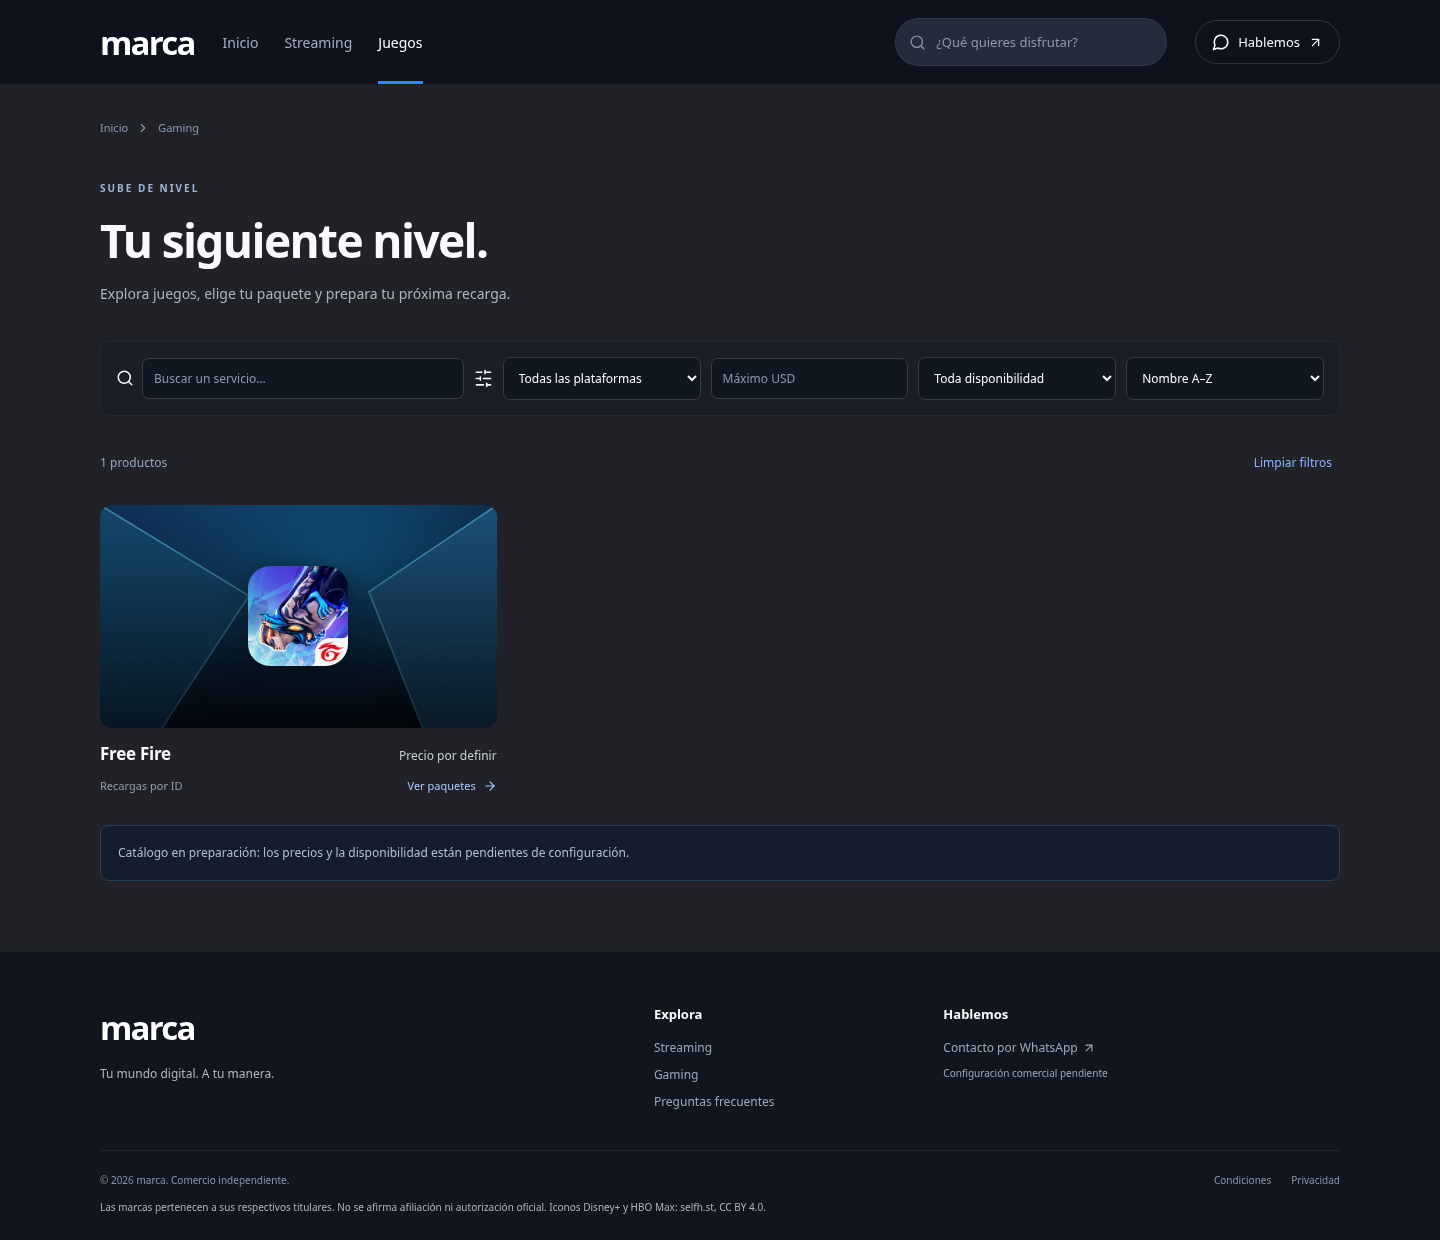
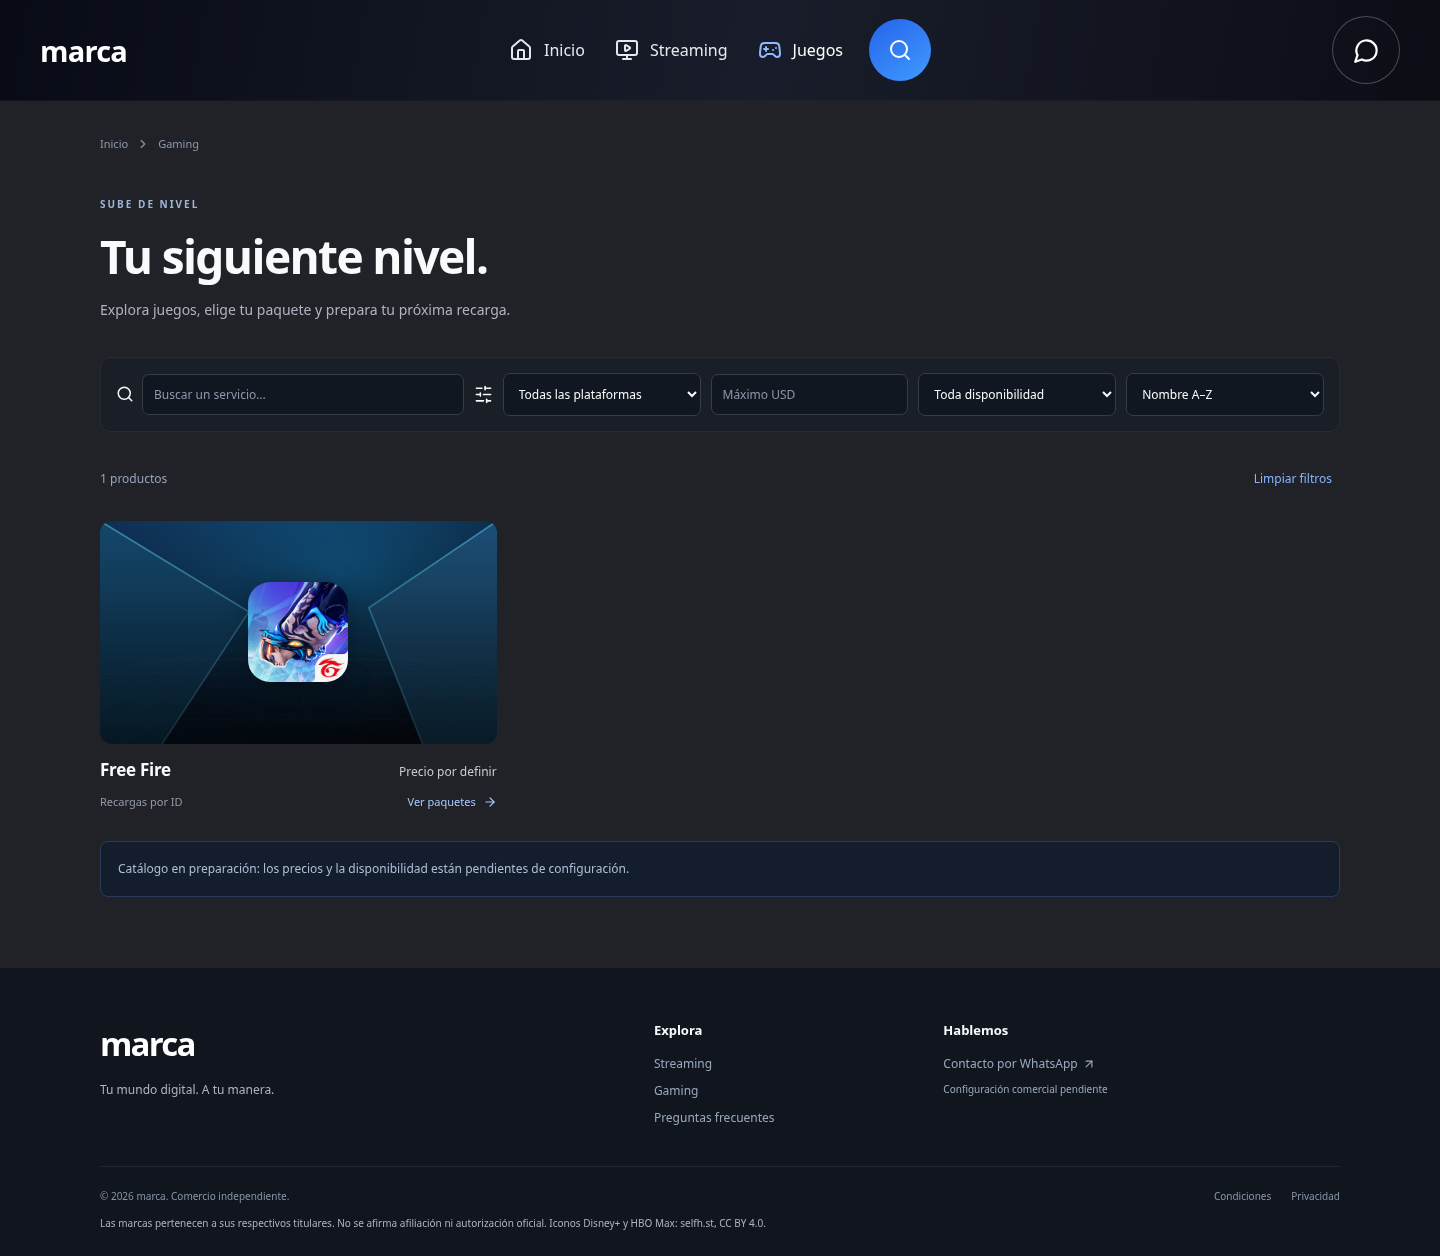
Replicar distribución de navegación con enlaces y búsqueda del catálogo

diff --git a/src/style.css b/src/style.css
@@ -27,3 +27,30 @@ body{overflow-x:clip}header{position:sticky;top:0;z-index:20;background:#0d111ce
 @media(min-width:1450px){.hero.storefront-hero{min-height:590px}}
 @media(max-width:1050px){.wrap{width:calc(100% - 44px)}.nav{gap:18px}.nav-search input{width:180px}.contact{padding:10px}.hero.storefront-hero{padding-left:30px;padding-right:30px;min-height:510px}.hero-feature{transform:scale(.82);transform-origin:center right}.service-strip{gap:4px}.service-strip span{font-size:10px}.service-strip>a{gap:6px}.product-card .product-logo{height:80px}.card-title-row{flex-wrap:wrap;gap:5px}.diamond-art{gap:15px}.diamond-art>svg{width:70px;height:70px}}
 @media(max-width:760px){.wrap{width:calc(100% - 32px)}.nav{min-height:74px;gap:12px}.nav-search{max-width:none;flex:1;padding-left:10px}.nav-search input{width:100%;padding:11px 6px;font-size:11px}.contact{border:0;padding:6px}.nav nav.open{order:5}.hero.storefront-hero{padding:40px 24px 58px;min-height:0;grid-template-columns:1fr;gap:20px}.storefront-hero h1{font-size:52px;letter-spacing:-2px}.storefront-hero p{font-size:14px;max-width:360px}.storefront-hero .eyebrow{font-size:8px}.storefront-hero .actions{gap:9px}.storefront-hero .button{padding:12px 15px;font-size:11px}.hero-feature{height:220px;max-width:340px;width:100%;margin:0 auto;transform:none}.feature-orbit{inset:0}.screen-cinema{width:140px;height:180px;left:4%;top:6px}.screen-cinema .product-logo{height:100px}.screen-cinema>span{font-size:6px;bottom:16px;letter-spacing:1px}.screen-play{width:155px;height:180px;right:4%;top:25px;gap:10px}.screen-play>svg:first-child{width:50px;height:50px}.screen-play>span{font-size:18px}.screen-play>svg:last-child{width:15px}.screen-sound{width:165px;height:88px;bottom:0;left:15%;padding:15px;gap:12px}.screen-sound .product-logo{width:42px;height:42px}.equalizer{height:40px;gap:3px}.equalizer i{width:4px}.hero-edition{display:none}.storefront-hero:after{height:22px}.service-strip{grid-template-columns:repeat(3,1fr);padding:12px 0 18px;gap:8px 4px}.service-strip>a{gap:7px;min-height:40px;padding:5px}.service-strip span{font-size:10px}.service-strip .product-logo{width:23px;height:23px;max-width:23px}.service-strip .logo-disney,.service-strip .logo-max{width:32px;max-width:32px}.section{margin-top:32px}.section-heading h2{font-size:23px;gap:4px}.section-heading h2 svg{width:20px}.section-heading .eyebrow{font-size:8px;letter-spacing:1px}.section-heading>a{font-size:10px}.product-grid{gap:22px 14px}.product-card .product-logo{height:64px;width:45%}.product-card .logo-free-fire{width:64px;height:64px;border-radius:14px}.product-visual{border-radius:9px}.card-body{padding-top:10px}.card-body h3{font-size:15px;line-height:1.25}.card-price{font-size:10px}.card-title-row{display:flex;flex-direction:column;gap:5px}.card-meta{margin-top:3px;font-size:10px;gap:4px;flex-wrap:wrap}.card-meta a{min-height:32px;font-size:10px}.gaming-banner{padding:28px 24px;gap:15px;align-items:center}.gaming-banner>div:first-child{min-width:0;flex:1}.gaming-banner h2{font-size:27px}.gaming-banner p{font-size:12px}.diamond-art{width:75px;flex-direction:column;gap:20px}.diamond-art>svg{width:60px;height:60px}.diamond-art>.product-logo{width:65px;height:65px}.how{padding:28px 0 0}.how h2{font-size:25px}.detail-art{height:230px}.detail-art .product-logo{height:120px}.detail-art .logo-free-fire{width:135px;height:135px}.footer-top{grid-template-columns:1fr 1fr}.contact>svg:last-child{display:none}}
+
+/* Centered navigation with the existing catalog destinations. */
+.store-header{background:linear-gradient(100deg,#080b16,#191d2b 53%,#0b0d15);border-bottom:1px solid #ffffff08}
+.store-header .nav{display:grid;grid-template-columns:1fr auto 1fr;width:calc(100% - 80px);max-width:none;min-height:100px;padding:0;gap:24px}
+.store-header .brand{justify-self:start;font-size:29px;font-weight:600;letter-spacing:-.8px}
+.nav-center{display:flex;align-items:center;gap:26px}
+.store-header nav{gap:30px;align-self:auto}
+.store-header nav a{min-height:64px;gap:11px;color:#e5e7ed;font-size:16px;white-space:nowrap}
+.store-header nav a.active{color:#fff}
+.store-header nav a.active:after{display:none}
+.store-header nav a:hover,.store-header nav a.active svg{color:#8cbaff}
+.search-toggle{width:62px;height:62px;border-radius:50%;display:grid;place-items:center;background:linear-gradient(145deg,#2563eb,#409bff);color:white;flex-shrink:0;transition:background .2s,box-shadow .2s}
+.search-toggle:hover{background:#438bff;box-shadow:0 0 25px #3478f536}
+.nav-actions{display:flex;justify-self:end;align-items:center;gap:16px}
+.store-header .contact{width:68px;height:68px;border:1px solid #ffffff40;border-radius:50%;padding:0;display:grid;place-items:center;color:#fff;background:#ffffff02}
+.store-header .contact:hover{border-color:#88b7ff;background:#ffffff09}
+.store-header .menu-button{background:none;color:white;min-width:44px;min-height:44px;padding:8px}
+.search-dialog{margin:112px auto auto;max-width:640px;padding:24px;background:#161c29;box-shadow:0 25px 80px #0008;overflow:visible}
+.search-dialog::backdrop{background:#030612b8;backdrop-filter:blur(5px)}
+.search-dialog .dialog-heading h2{font-size:21px}
+.catalog-search{display:flex;gap:10px;align-items:stretch}
+.catalog-search input{flex:1;width:100%;font-size:16px;min-height:54px;border-radius:30px;padding:14px 20px;background:#0b101c}
+.catalog-search>button{width:54px;min-width:54px;border-radius:50%;background:#2877f5;color:white;display:grid;place-items:center}
+@media(max-width:1050px){.store-header .nav{width:calc(100% - 48px);gap:20px}.nav-center{gap:20px}.store-header nav{gap:22px}.store-header nav a{font-size:14px;gap:8px}.store-header .contact{width:58px;height:58px}.search-toggle{width:56px;height:56px}}
+@media(max-width:760px){.store-header .nav{width:calc(100% - 32px);min-height:80px;grid-template-columns:1fr auto auto;gap:16px;position:relative}.store-header .brand{font-size:26px}.nav-center{gap:0}.store-header nav{display:none}.store-header nav.open{display:flex;position:absolute;top:100%;left:-16px;right:-16px;width:auto;order:0;justify-content:center;gap:22px;background:#111624;padding:12px 16px;border-top:1px solid #ffffff10;border-bottom:1px solid #ffffff18;box-shadow:0 15px 25px #0004}.store-header nav a{font-size:12px;gap:7px;min-height:48px}.store-header nav a svg{width:20px}.search-toggle{width:46px;height:46px}.search-toggle svg{width:21px}.nav-actions{gap:9px}.store-header .contact{width:46px;height:46px}.store-header .contact svg{width:23px}.store-header .menu-button{display:grid;place-items:center}.search-dialog{margin-top:96px;padding:20px}.search-dialog .dialog-heading h2{font-size:18px}.search-dialog .dialog-heading{gap:5px;margin-bottom:15px}}
+@media(max-width:360px){.store-header .nav{gap:10px}.nav-actions{gap:3px}.store-header nav.open{gap:14px}.store-header nav a{gap:5px}}
+@media(max-width:760px){.store-header .contact>svg:last-child{display:block}}

diff --git a/src/main.tsx b/src/main.tsx
@@ -1,6 +1,6 @@
 import React,{useEffect,useRef,useState} from 'react';
 import {createRoot} from 'react-dom/client';
-import {ArrowRight,ArrowUpRight,Search,Gamepad2,MessageCircle,Menu,X,Check,ShieldCheck,SlidersHorizontal,ChevronRight,Diamond} from 'lucide-react';
+import {ArrowRight,ArrowUpRight,Search,Gamepad2,MessageCircle,Menu,X,Check,ShieldCheck,SlidersHorizontal,ChevronRight,Diamond,Home,MonitorPlay} from 'lucide-react';
 import {business,catalog,type Product} from './catalog';
 import {money,purchasable,validPlayerId,whatsappUrl,orderMessage,promotion} from './commerce';
 import {ProductIdentity} from './ProductIdentity';
@@ -15,8 +15,26 @@ function App(){
  useEffect(()=>{document.title=`${title} · ${business.name}`},[title]);
  const filtered=products.filter(p=>(!category||p.category===category)&&(!query||`${p.name} ${p.description}`.toLowerCase().includes(query.toLowerCase()))&&(!selected||p.id===selected)&&(!duration||p.variants.some(v=>v.duration===Number(duration)))&&(!availability||p.variants.some(v=>purchasable(p,v)))&&(!max||p.variants.some(v=>v.price!==null&&v.price<=Number(max)))).sort((a,b)=>{const price=(p:Product)=>Math.min(...p.variants.filter(v=>v.price!==null).map(v=>v.price!));return sort==='asc'?price(a)-price(b)||a.name.localeCompare(b.name):sort==='desc'?price(b)-price(a)||a.name.localeCompare(b.name):a.name.localeCompare(b.name)});
  function reset(){setQuery('');setSelected('');setDuration('');setAvailability('');setMax('');setSort('name')}
+ const searchDialog=useRef<HTMLDialogElement>(null);
  const contact=whatsappUrl('Hola, quisiera información sobre el catálogo.');
- return <><a className="skip" href="#contenido">Saltar al contenido</a><header><div className="nav wrap"><a className="brand" href="#/" aria-label="Inicio">marca</a><nav className={menu?'open':''} aria-label="Principal">{[['/','Inicio'],['/streaming','Streaming'],['/juegos','Juegos']].map(([path,label])=><a key={path} onClick={reset} className={route===path?'active':''} href={`#${path}`}>{label}</a>)}</nav><form className="nav-search" onSubmit={e=>{e.preventDefault();location.hash='/buscar'}}><Search size={17}/><input aria-label="Buscar en el catálogo" placeholder="¿Qué quieres disfrutar?" value={query} onChange={e=>setQuery(e.target.value)}/></form><a className="contact" aria-label="Contacto por WhatsApp" href={contact||'#/contacto'}><MessageCircle size={18}/><span>Hablemos</span><ArrowUpRight size={15}/></a><button className="menu-button" aria-label="Abrir menú" aria-expanded={menu} onClick={()=>setMenu(!menu)}>{menu?<X/>:<Menu/>}</button></div></header>
+ return <><a className="skip" href="#contenido">Saltar al contenido</a>
+ <header className="store-header"><div className="nav wrap">
+  <a className="brand" href="#/" aria-label="Inicio">marca</a>
+  <div className="nav-center">
+   <nav id="main-navigation" className={menu?'open':''} aria-label="Principal">
+    {([['/','Inicio',Home],['/streaming','Streaming',MonitorPlay],['/juegos','Juegos',Gamepad2]] as const).map(([path,label,Icon])=><a key={path} onClick={reset} className={route===path?'active':''} aria-current={route===path?'page':undefined} href={`#${path}`}><Icon size={24} aria-hidden="true"/><span>{label}</span></a>)}
+   </nav>
+   <button className="search-toggle" aria-label="Abrir búsqueda" aria-haspopup="dialog" onClick={()=>searchDialog.current?.showModal()}><Search size={24}/></button>
+  </div>
+  <div className="nav-actions">
+   <a className="contact" aria-label="Contacto por WhatsApp" title="Contacto por WhatsApp" href={contact||'#/contacto'}><MessageCircle size={27}/></a>
+   <button className="menu-button" aria-label={menu?'Cerrar menú':'Abrir menú'} aria-controls="main-navigation" aria-expanded={menu} onClick={()=>setMenu(!menu)}>{menu?<X/>:<Menu/>}</button>
+  </div>
+ </div></header>
+ <dialog className="search-dialog" ref={searchDialog} aria-labelledby="search-heading" onClick={e=>{if(e.target===e.currentTarget)searchDialog.current?.close()}}>
+  <div className="dialog-heading"><h2 id="search-heading">Busca tu próximo favorito</h2><button aria-label="Cerrar búsqueda" onClick={()=>searchDialog.current?.close()}><X/></button></div>
+  <form className="catalog-search" onSubmit={e=>{e.preventDefault();location.hash='/buscar';searchDialog.current?.close()}}><input autoFocus aria-label="Buscar en el catálogo" placeholder="¿Qué quieres disfrutar?" value={query} onChange={e=>setQuery(e.target.value)}/><button type="submit" aria-label="Buscar"><Search size={23}/></button></form>
+ </dialog>
  <main id="contenido" className="wrap">
  {route==='/'?<><section className="hero storefront-hero"><div className="hero-copy"><span className="eyebrow"><span className="blue-dot"/> STREAMING · MÚSICA · GAMING</span><h1>Elige qué<br/><span>disfrutar hoy.</span></h1><p>Tus historias. Tu música. Tu próxima partida.<br/>Encuentra tus favoritos en un solo lugar.</p><div className="actions"><a className="button" href="#/streaming" onClick={reset}>Explorar streaming <ArrowRight size={18}/></a><a className="button secondary" href="#/juegos" onClick={reset}><Gamepad2 size={19}/> Ver juegos</a></div></div><div className="hero-feature" aria-hidden="true"><div className="feature-orbit"/><div className="feature-screen screen-cinema"><ProductIdentity id="netflix" name="Netflix"/><span>UNA HISTORIA MÁS.</span></div><div className="feature-screen screen-sound"><ProductIdentity id="spotify" name="Spotify"/><div className="equalizer">{[28,50,38,76,58,92,43,65,34,54,24].map((h,i)=><i key={i} style={{height:`${h}%`}}/>)}</div></div><div className="feature-screen screen-play"><Gamepad2/><span>DALE PLAY<br/>A TU MUNDO.</span><Diamond/></div><span className="hero-edition">ENTRETENIMIENTO A TU MANERA</span></div></section>
  <nav className="service-strip" aria-label="Servicios del catálogo">{products.map(p=><a key={p.id} href={`#/producto/${p.id}`} aria-label={`Explorar ${p.name}`}><ProductIdentity id={p.id} name={p.name}/><span>{p.name}</span></a>)}</nav>

diff --git a/e2e/store.spec.ts b/e2e/store.spec.ts
@@ -13,5 +13,5 @@ test('logotipos locales en catálogo y detalle, con respaldo si falla la carga',
  await expect(page.locator('.detail-art .product-name-fallback')).toHaveText('Netflix');
 });
 test('catálogo, filtros, planes y navegación',async({page},info)=>{const errors:string[]=[];page.on('pageerror',e=>errors.push(e.message));await page.goto('/');await expect(page.getByRole('heading',{name:/Elige qué/})).toBeVisible();await expect(page.locator('.product-card')).toHaveCount(6);await page.getByRole('link',{name:'Explorar streaming',exact:true}).click();await expect(page.locator('.product-card')).toHaveCount(5);await page.getByRole('textbox',{name:'Buscar servicios'}).fill('spotify');await expect(page.locator('.product-card')).toHaveCount(1);await page.getByRole('link',{name:'Ver planes',exact:true}).click();await expect(page.getByRole('heading',{name:'Spotify',exact:true})).toBeVisible();await page.getByRole('radio').nth(1).check();await expect(page.getByRole('radio').nth(1)).toBeChecked();await expect(page.getByRole('button',{name:'Revisar solicitud'})).toHaveCount(0);await page.goto('/#/juegos');await page.reload();await expect(page.locator('.product-card')).toHaveCount(1);await page.getByRole('link',{name:'Ver paquetes',exact:true}).click();await expect(page.getByRole('radio')).toHaveCount(5);await page.getByRole('textbox',{name:'ID de jugador'}).fill('12345678');await expect(page.locator('a[href*="wa.me"]')).toHaveCount(0);await page.goto('/#/streaming');await page.getByRole('combobox',{name:'Disponibilidad',exact:true}).selectOption('yes');await expect(page.getByRole('heading',{name:'No encontramos resultados'})).toBeVisible();await page.getByRole('button',{name:'Mostrar todo'}).click();await expect(page.locator('.product-card')).toHaveCount(5);await page.goto('/#/contacto');await expect(page.getByText('WhatsApp pendiente de configuración.',{exact:false})).toBeVisible();await page.goto('/');await expect.poll(()=>page.evaluate(()=>document.documentElement.scrollWidth<=innerWidth)).toBe(true);await page.screenshot({path:`/tmp/ipey-${info.project.name}.png`,fullPage:true});expect(errors).toEqual([])});
-test('buscador global y menú móvil',async({page},info)=>{await page.goto('/');await page.getByRole('textbox',{name:'Buscar en el catálogo'}).fill('Netflix');await page.getByRole('textbox',{name:'Buscar en el catálogo'}).press('Enter');await expect(page.locator('.product-card')).toHaveCount(1);if(info.project.name==='mobile'){await page.getByRole('button',{name:'Abrir menú'}).click();await page.getByRole('navigation',{name:'Principal'}).getByRole('link',{name:'Juegos'}).click();await expect(page.locator('.product-card')).toHaveCount(1)}});
+test('buscador global y menú móvil',async({page},info)=>{await page.goto('/');await page.getByRole('button',{name:'Abrir búsqueda',exact:true}).click();await expect(page.getByRole('dialog',{name:'Busca tu próximo favorito'})).toBeVisible();await page.getByRole('textbox',{name:'Buscar en el catálogo'}).fill('Netflix');await page.getByRole('textbox',{name:'Buscar en el catálogo'}).press('Enter');await expect(page.getByRole('dialog',{name:'Busca tu próximo favorito'})).not.toBeVisible();await expect(page.locator('.product-card')).toHaveCount(1);if(info.project.name==='mobile'){await page.getByRole('button',{name:'Abrir menú'}).click();await page.getByRole('navigation',{name:'Principal'}).getByRole('link',{name:'Juegos'}).click();await expect(page.locator('.product-card')).toHaveCount(1)}});
 test('solicitud configurada valida ID y prepara WhatsApp',async({page})=>{await page.route('**/src/catalog.ts',async route=>{const response=await route.fetch();let body=await response.text();body+='\nbusiness.whatsapp="50512345678"; catalog.forEach(p=>p.variants.forEach(v=>{v.price=7.5;v.available=true}));';await route.fulfill({response,body})});await page.goto('/#/producto/free-fire');await page.getByRole('button',{name:'Revisar solicitud'}).click();await expect(page.getByRole('alert')).toHaveText('Introduce un ID de jugador de 6 a 15 dígitos.');await page.getByRole('textbox',{name:'ID de jugador'}).fill('12345678');await page.getByRole('radio').nth(2).check();await page.getByRole('button',{name:'Revisar solicitud'}).click();await expect(page.getByRole('dialog')).toBeVisible();const href=await page.getByRole('link',{name:'Continuar a WhatsApp'}).getAttribute('href');const url=new URL(href!);expect(url.hostname).toBe('wa.me');expect(url.pathname).toBe('/50512345678');expect(url.searchParams.get('text')).toContain('520 diamantes');expect(url.searchParams.get('text')).toContain('ID de jugador: 12345678');expect(url.searchParams.get('text')).toMatch(/7[.,]50/);await page.getByRole('button',{name:'Cerrar resumen'}).click();await expect(page.getByRole('dialog')).not.toBeVisible()});

diff --git a/README.md b/README.md
@@ -46,7 +46,7 @@ No se requiere añadir credenciales al código. El workflow usa el `GITHUB_TOKEN
 
 ## Presentación
 
-La interfaz toma como referencia las capturas de Instant Gaming aportadas por el usuario: banner panorámico, cabecera fija, portadas horizontales y nombre/precio debajo. Se conserva la paleta negra, gris y azul. La franja de servicios permite abrir cada producto. Las tarjetas muestran el precio solo cuando la variante se puede contratar y las ofertas aparecen únicamente si hay promociones válidas. Los fondos de `public/art/` son ilustraciones vectoriales originales del proyecto; no son material oficial de las plataformas.
+La interfaz toma como referencia las capturas de Instant Gaming aportadas por el usuario: banner panorámico, cabecera fija, portadas horizontales y nombre/precio debajo. Se conserva la paleta negra, gris y azul. La navegación mantiene «marca» a la izquierda, Inicio/Streaming/Juegos con iconos en el centro y contacto a la derecha. El botón circular de búsqueda abre un cuadro accesible que se cierra con Escape; en móvil, los enlaces se despliegan desde el menú. La franja de servicios permite abrir cada producto. Las tarjetas muestran el precio solo cuando la variante se puede contratar y las ofertas aparecen únicamente si hay promociones válidas. Los fondos de `public/art/` son ilustraciones vectoriales originales del proyecto; no son material oficial de las plataformas.
 
 ## Capturas reales
 
